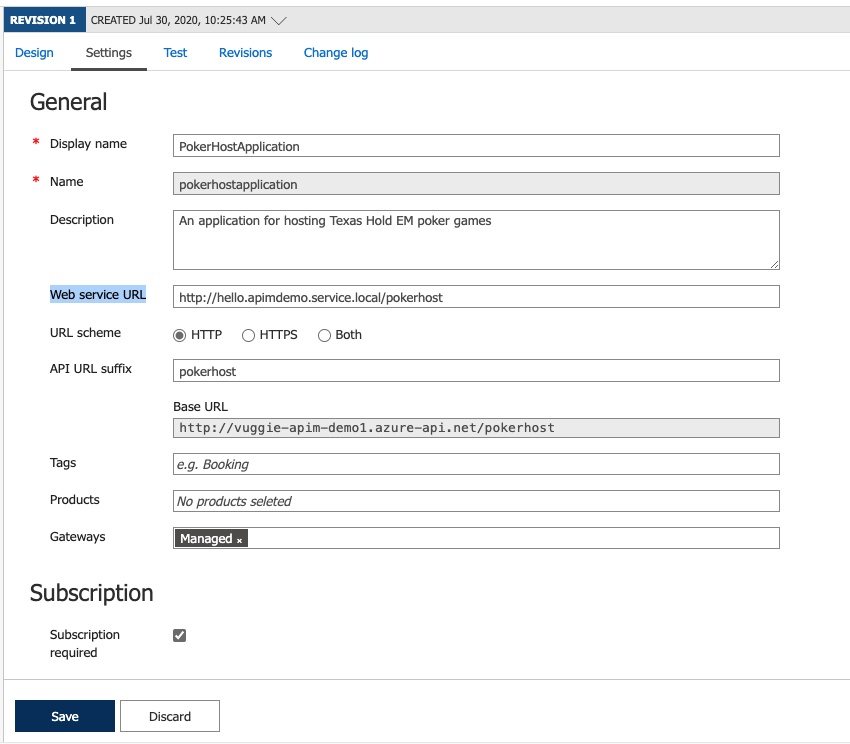
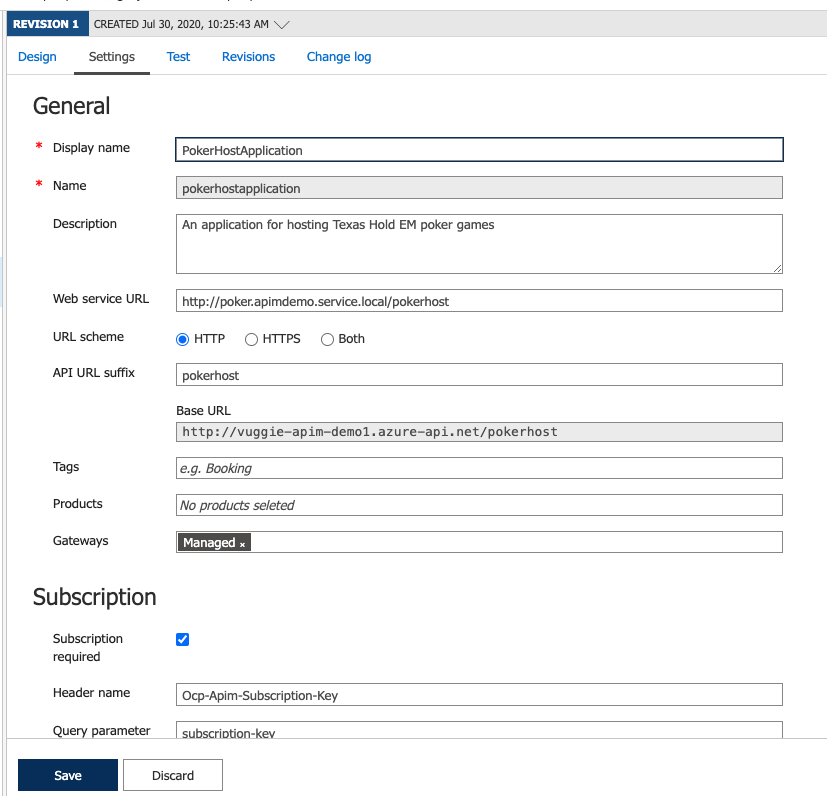
updated pic

diff --git a/README.md b/README.md
@@ -63,7 +63,7 @@ After this deployments you should be able to:
 
 ### Config APIM
 
-#### Setup services hosted on aks cluster
+#### Setup services
 
 In your Azure Poral go to the APIM and select the API tab:
 
@@ -92,23 +92,32 @@ In this policy you should forward your backend request to the AKS backend servic
 </policies>
 ```
 Please note that you can configure this policy on Operation level or more globally on API level. If you do not configure this, you backend service will never be reached, also have a look at the caching possibilities.
+Of course you can configure other policies as well, for more information please read the [APIM documentation](https://docs.microsoft.com/en-us/azure/api-management/).
 
 In the `Settings` tab you need to configure the URL of your backend service. If you used the scripts in this repo you should have 2 domains configured:
+
 ```
 hello.apimdemo.service.local
 poker.apimdemo.service.local
 ```
-both services are pointing to the internal loadbalancer, which is pre configured on this address: `15.1.2.100`. This address is used by the nginx ingress controller, which will make sure that you address the appropriate services.
 
-For the hello service you used fill in: `http://hello.apimdemo.service.local` in the `Web service URL` field. Make sure you select `HTTP`. 
+Both services are pointing to the internal loadbalancer, which is pre configured on this address: `15.1.2.100`. This address is used by the nginx ingress controller, which will make sure that you address the appropriate services which are deployed on the AKS cluster.
+
+For the hello service you enter: `http://hello.apimdemo.service.local` in the `Web service URL` field. Make sure you select `HTTP`.
+
 For the poker service your config should look like this:
 
 ![Config APIM service](https://raw.githubusercontent.com/chrisvugrinec/apim-demo/master/images/apim5.png)
 
+If you have configured your `<forward-request />` and the proper `Web service URL` you should be able to test your service through the portal. Ps If testing using an external tool like *Postman* make sure you post the required headers as well, for eg `Ocp-Apim-Subscription-Key` with the key for the defined APIM product.
 
+#### Configure Authentication
+
+There are multiple ways to enforce authentication on your services using APIM.
 
 
 ## Links
 
-- java springboot swagger example; https://github.com/hendisantika/spring-boot-rest-swagger-example
-
+- APIM documentation; https://docs.microsoft.com/en-us/azure/api-management/
+- APIM AAD authentication; https://docs.microsoft.com/en-us/azure/api-management/api-management-howto-protect-backend-with-aad
+- oauth2; https://auth0.com/docs/integrations/azure-api-management
